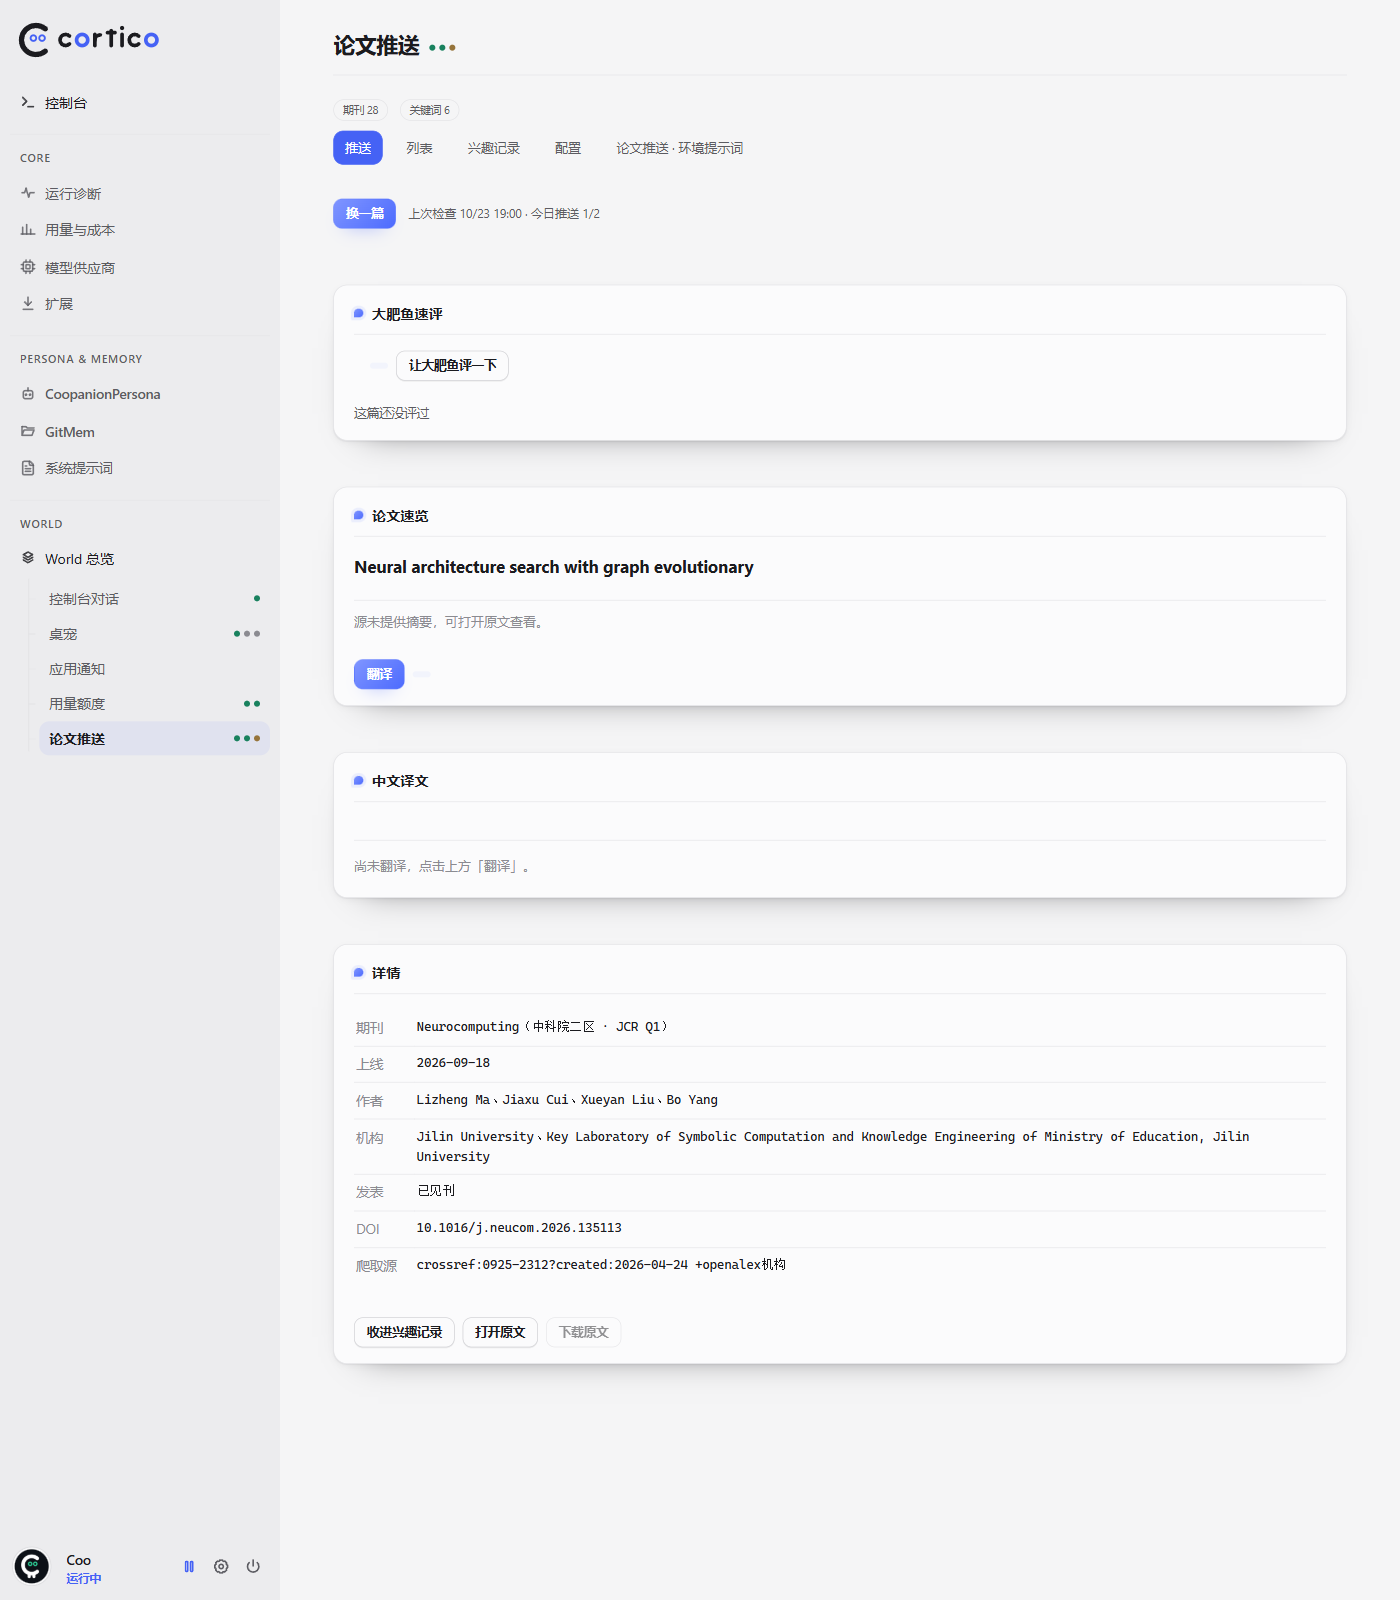
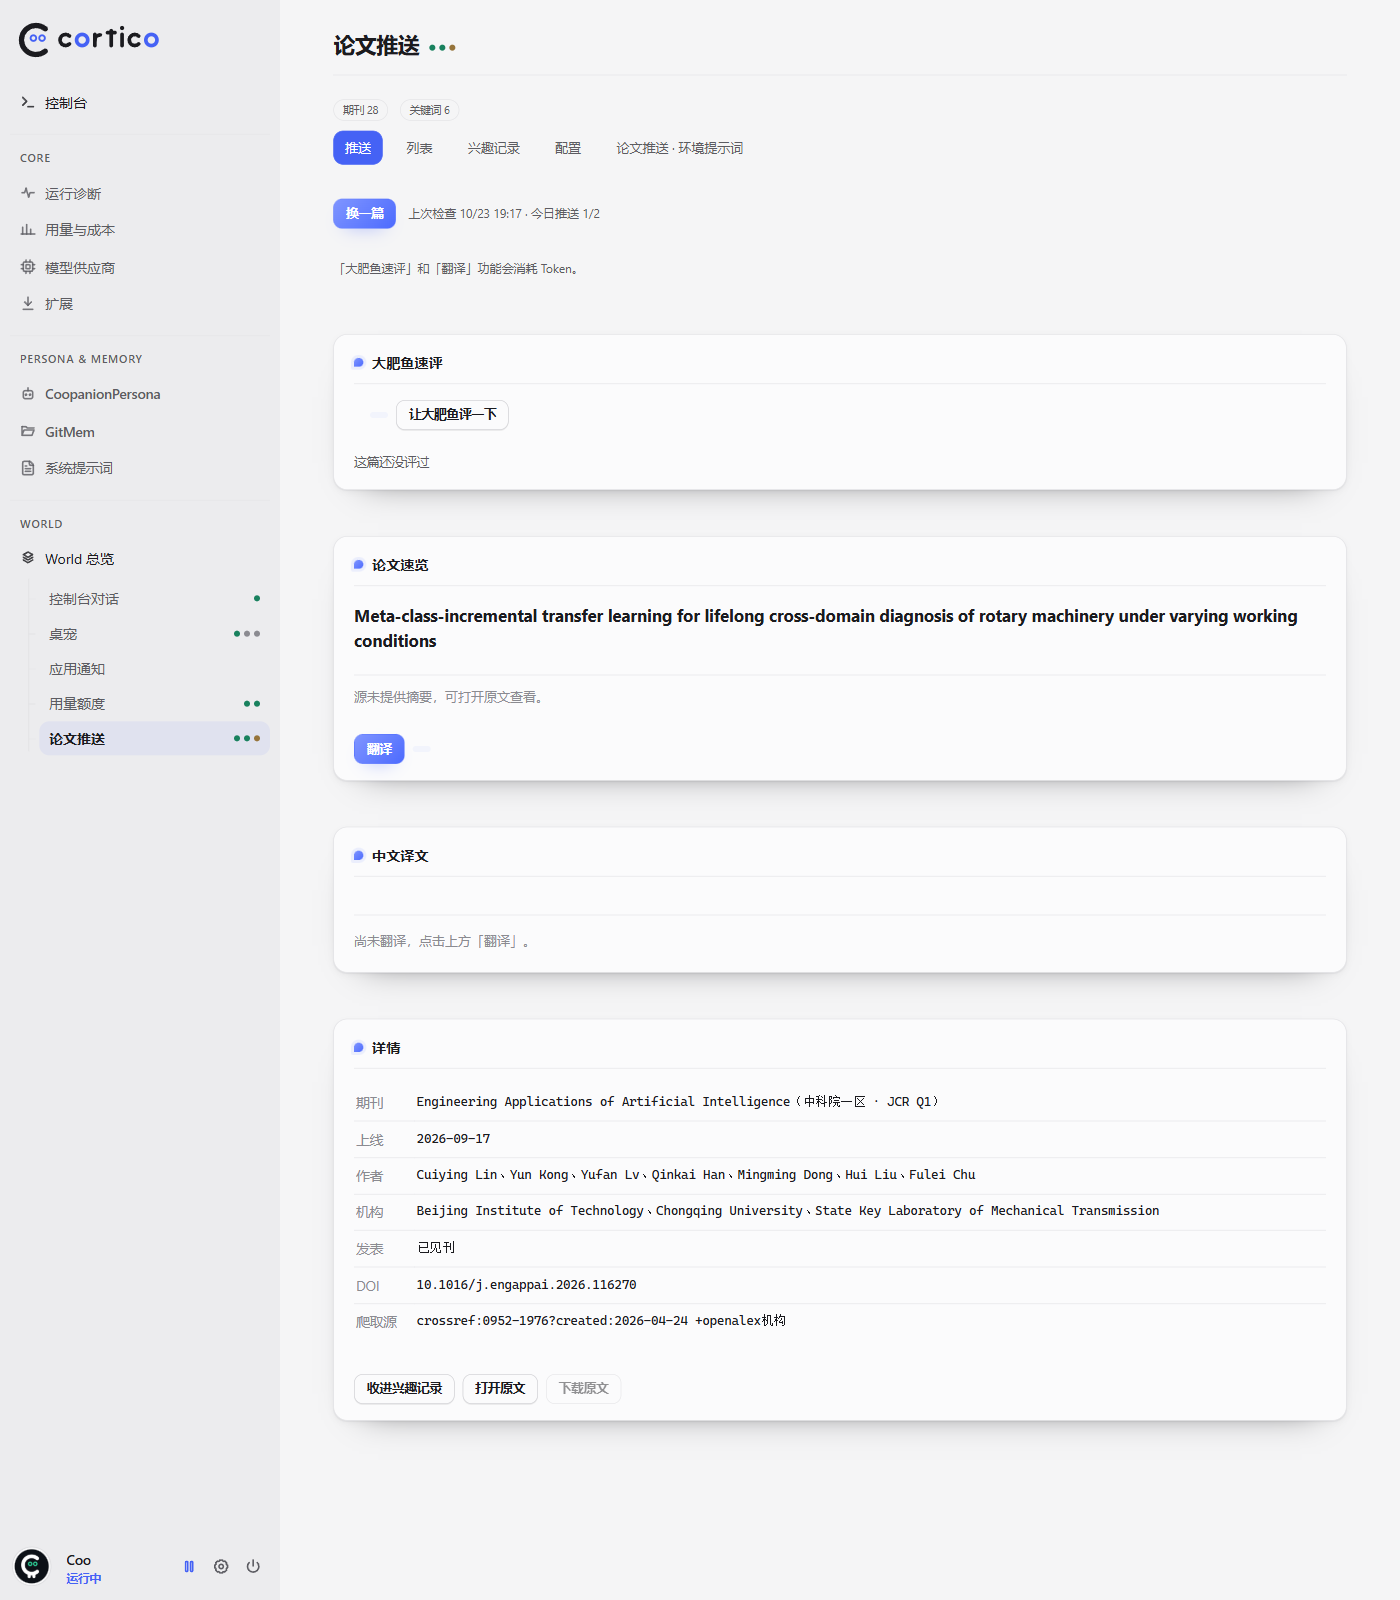
feat: Crossref 邮箱加说明按钮，推送页提示速评与翻译会消耗 Token

diff --git a/extension-interest-push/src/i18n.ts b/extension-interest-push/src/i18n.ts
@@ -43,6 +43,7 @@ export interface InterestText {
   detail: {
     pick: string;
     overviewTitle: string;
+    tokenHint: string;
     reviewTitle: string;
     reviewAsk: string;
     reviewNone: string;
@@ -117,6 +118,8 @@ export interface InterestText {
     rowsPerJournal: string;
     journalDelayDays: string;
     mailto: string;
+    mailtoHelpTitle: string;
+    mailtoHelp: string;
     downloadDir: string;
     requireAbstract: string;
     allowNoAbstract: string;
@@ -212,6 +215,7 @@ const zh: InterestText = {
   detail: {
     pick: '还没有条目。先去「配置」页签点一次检查。',
     overviewTitle: '论文速览',
+    tokenHint: '「大肥鱼速评」和「翻译」功能会消耗 Token。',
     reviewTitle: '大肥鱼速评',
     reviewAsk: '让大肥鱼评一下',
     reviewNone: '这篇还没评过',
@@ -287,6 +291,12 @@ const zh: InterestText = {
     rowsPerJournal: '每刊每次取多少条',
     journalDelayDays: '期刊延迟天数',
     mailto: 'Crossref 邮箱',
+    mailtoHelpTitle: 'Crossref 邮箱有什么用',
+    mailtoHelp:
+      '这个地址会随请求发给 Crossref、OpenAlex 与 Semantic Scholar。\n\n' +
+      'Crossref 把它当作「可联系的使用者」，请求走礼貌队列，速率与响应更稳；不带邮箱的请求归入公共池，高峰期更容易被限流或超时。\n\n' +
+      '不是账号，不需要注册或验证，也不会收到订阅邮件。只有在请求明显异常时，Crossref 才可能按这个地址联系你。\n\n' +
+      '建议填一个常用邮箱，例如你的学校邮箱。',
     downloadDir: '下载目录',
     requireAbstract: '只推送有摘要的条目（推荐）',
     allowNoAbstract: '没有可推条目时允许推缺摘要的（仅手动）',
@@ -382,6 +392,7 @@ const en: InterestText = {
   detail: {
     pick: 'Nothing yet. Run a check on the Settings tab.',
     overviewTitle: 'Overview',
+    tokenHint: 'The quick review and the translation both call the model and consume tokens.',
     reviewTitle: 'Big Fish take',
     reviewAsk: 'Let Big Fish rate it',
     reviewNone: 'Not reviewed yet',
@@ -456,7 +467,13 @@ const en: InterestText = {
     windowDays: 'Only last N days',
     rowsPerJournal: 'Rows per journal',
     journalDelayDays: 'Journal delay (days)',
-    mailto: 'Crossref mailto',
+    mailto: 'Crossref email',
+    mailtoHelpTitle: 'What is this email for',
+    mailtoHelp:
+      'The address is sent with requests to Crossref, OpenAlex and Semantic Scholar.\n\n' +
+      'Crossref treats it as a contact for the polite pool, which gives steadier rate limits and response times; requests without an email land in the public pool and get throttled sooner at peak times.\n\n' +
+      'It is not an account: no signup, no verification, no newsletters. Crossref only uses it to reach you if your traffic looks abnormal.\n\n' +
+      'Use an address you actually read, for example your university email.',
     downloadDir: 'Download dir',
     requireAbstract: 'Only push items that have an abstract',
     allowNoAbstract: 'Allow items without an abstract when nothing else is left (manual only)',

diff --git a/extension-interest-push/src/console/client.ts b/extension-interest-push/src/console/client.ts
@@ -271,6 +271,7 @@ function mountDetail(ctx: ConsolePanelContext): void {
   });
   top.append(nextBtn, note);
   ctx.root.appendChild(top);
+  ctx.root.appendChild(ui.h('div', 'ip-note ip-tokenhint', t.detail.tokenHint));
 
   // 大肥鱼速评：卡片排最上面——气泡推送也是先念这一段，页面顺序与对话顺序保持一致。
   const reviewCard = ui.sheet({ title: t.detail.reviewTitle });
@@ -800,6 +801,22 @@ function mountSettings(ctx: ConsolePanelContext): void {
   const rowsInput = numberInput(ui, '50');
   const delayInput = numberInput(ui, '14', '4.5em');
   const mailtoInput = ui.input({ placeholder: 'name@example.org' });
+  // 旁边的「!」：点开说明这个地址会被发给谁、有什么用。
+  const mailtoHelpBody = ui.h('div', 'ip-help');
+  for (const para of t.settings.mailtoHelp.split('\n\n')) mailtoHelpBody.appendChild(ui.h('p', '', para));
+  const mailtoHelpBtn = ui.button('!', {
+    size: 'sm',
+    variant: 'plain',
+    onClick: () => {
+      mailtoHelpBtn.classList.add('ip-helpbtn-on');
+      const drawer = ui.drawer(t.settings.mailtoHelpTitle, mailtoHelpBody);
+      void drawer;
+    },
+  });
+  mailtoHelpBtn.classList.add('ip-helpbtn');
+  mailtoHelpBtn.title = t.settings.mailtoHelpTitle;
+  const mailtoWrap = ui.h('div', 'ip-withhelp');
+  mailtoWrap.append(mailtoInput, mailtoHelpBtn);
   const dirInput = ui.input({ placeholder: '' });
   const dirBar = ui.h('div', 'ip-inline');
   dirBar.append(
@@ -836,7 +853,7 @@ function mountSettings(ctx: ConsolePanelContext): void {
       fieldRow(ui, t.settings.arxivCats, ui.h('div')),
       catsEditor.el,
     ),
-    block(ui, t.settings.blockWindow, sourceNumbers, fieldRow(ui, t.settings.mailto, mailtoInput)),
+    block(ui, t.settings.blockWindow, sourceNumbers, fieldRow(ui, t.settings.mailto, mailtoWrap)),
     block(ui, t.settings.blockAbstract, abstractBox.el, bareBox.el, ui.msgline(t.settings.abstractHint)),
     block(ui, t.settings.blockDownload, fieldRow(ui, t.settings.downloadDir, dirBar)),
     block(ui, t.settings.blockOpenAlex, keyRow, keyState, ui.msgline(t.settings.openAlexHint)),

diff --git a/extension-interest-push/src/console/style.css b/extension-interest-push/src/console/style.css
@@ -783,3 +783,38 @@
 .ip-shell .ip-keyrow button {
   flex: 0 0 auto;
 }
+
+/* 邮箱旁边的小问号/感叹号：圆形、低调，点开是说明抽屉 */
+.ip-shell .ip-withhelp {
+  display: inline-flex;
+  align-items: center;
+  gap: 8px;
+  min-width: 0;
+}
+
+.ip-shell .ip-withhelp input {
+  flex: 1 1 auto;
+  min-width: 0;
+}
+
+.ip-shell .ip-helpbtn {
+  flex: 0 0 auto;
+  width: 24px;
+  height: 24px;
+  padding: 0;
+  border-radius: 50%;
+  font-weight: 700;
+  line-height: 1;
+}
+
+/* 推送页的 Token 提示：一行灰字，不抢内容 */
+.ip-shell .ip-tokenhint {
+  margin: 2px 0 10px;
+  font-size: 12px;
+  color: var(--ip-ink-soft);
+}
+
+.ip-shell .ip-help p {
+  margin: 0 0 10px;
+  line-height: 1.7;
+}

diff --git a/extension-interest-push/CHANGELOG.md b/extension-interest-push/CHANGELOG.md
@@ -1,5 +1,10 @@
 # Changelog
 
+## 0.9.2
+
+- 推送页提示「大肥鱼速评」与「翻译」会消耗 Token。
+- Crossref 邮箱旁新增「!」，点开说明该地址的作用与礼貌队列机制。
+
 ## 0.9.0
 
 - npm 包名改为 `cortico-world-dailypaper`。
